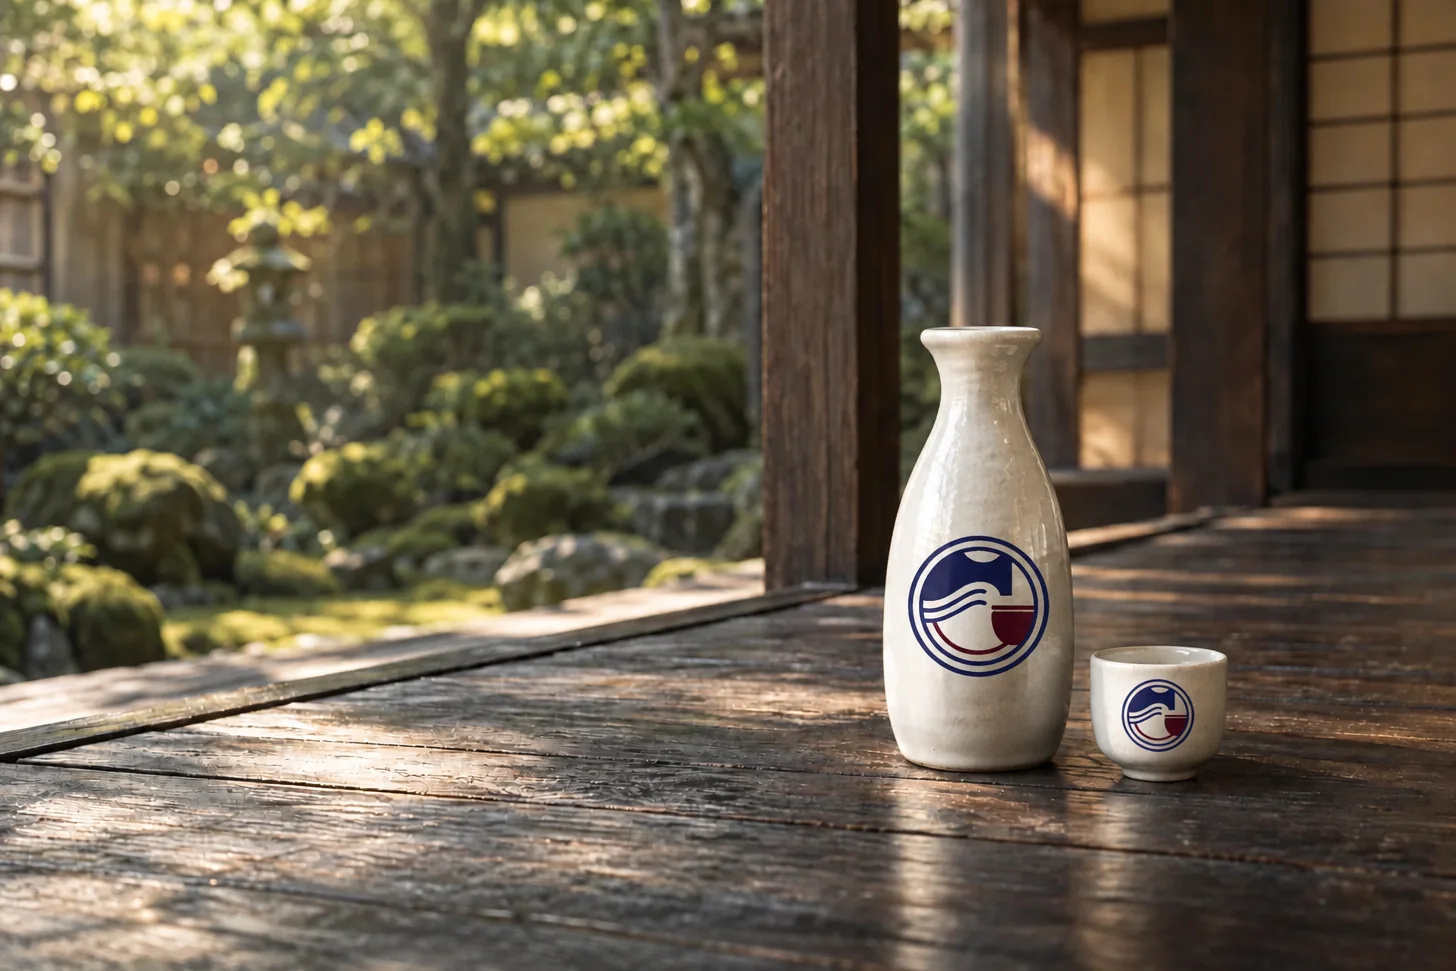
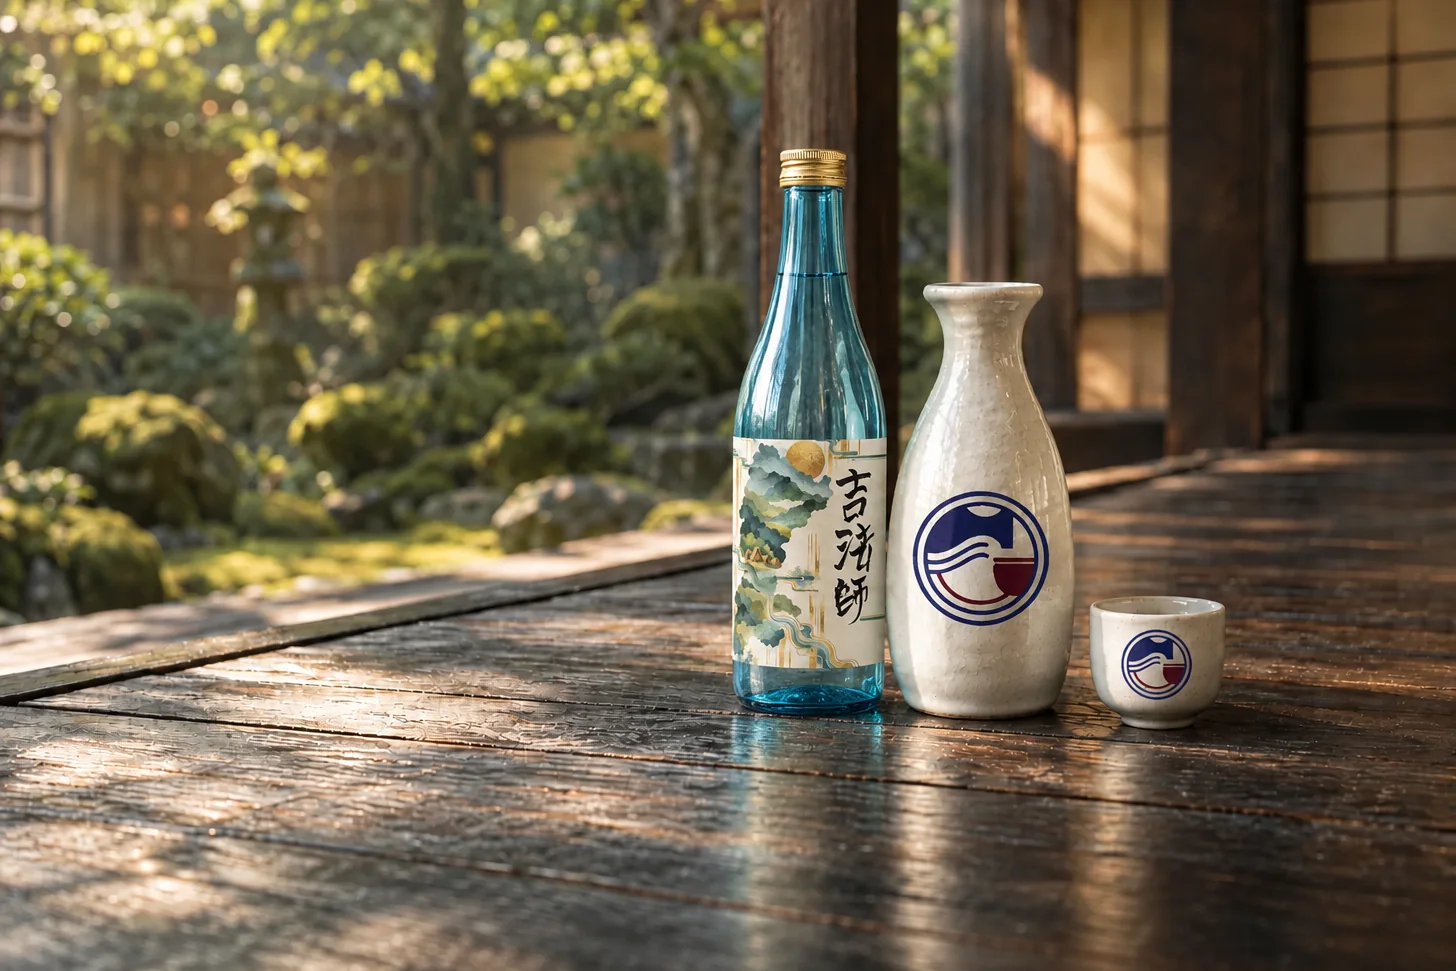
Publish hero with bottle, tokkuri and ochoko

diff --git a/index.html b/index.html
@@ -12,7 +12,7 @@
   <link rel="preconnect" href="https://fonts.gstatic.com" crossorigin>
   <link href="https://fonts.googleapis.com/css2?family=Noto+Sans+JP:wght@400;500&family=Zen+Old+Mincho:wght@400;500;600&display=swap" rel="stylesheet">
   <link rel="preload" as="image" href="assets/images/hero-tokkuri-1456.webp" media="(min-width: 701px)">
-  <link rel="preload" as="image" href="assets/images/hero-tokkuri-mobile-725.webp" imagesrcset="assets/images/hero-tokkuri-mobile-600.webp 600w, assets/images/hero-tokkuri-mobile-725.webp 725w" imagesizes="100vw" media="(max-width: 700px)">
+  <link rel="preload" as="image" href="assets/images/hero-tokkuri-mobile-725.webp" imagesrcset="assets/images/hero-tokkuri-mobile-600.webp 600w, assets/images/hero-tokkuri-mobile-725.webp 700w" imagesizes="100vw" media="(max-width: 700px)">
   <link rel="stylesheet" href="assets/css/site.css?v=7">
   <link rel="stylesheet" href="assets/css/editorial.css?v=10">
   <link rel="stylesheet" href="assets/css/castle-atmosphere.css?v=9">
@@ -35,7 +35,7 @@
     <div id="home-page" class="page">
       <section data-surface="dark" class="hero" aria-labelledby="hero-title">
         <div class="hero-title"><p class="hero-origin">いだちゃんねるの日本酒</p><h1 id="hero-title" aria-label="吉法師"><span aria-hidden="true">吉</span><span aria-hidden="true">法</span><span aria-hidden="true">師</span></h1><span class="hero-reading">きっぽうし</span></div>
-        <figure class="hero-image"><picture><source media="(max-width: 700px)" srcset="assets/images/hero-tokkuri-mobile-600.webp 600w, assets/images/hero-tokkuri-mobile-725.webp 725w" sizes="100vw"><img src="assets/images/hero-tokkuri-1456.webp" srcset="assets/images/hero-tokkuri-800.webp 800w, assets/images/hero-tokkuri-1456.webp 1456w" sizes="100vw" width="1456" height="971" alt="緑の庭を望む縁側に、ロゴ入りの白い徳利とおちょこ。生成した撮影イメージ。" fetchpriority="high"></picture><figcaption>生成イメージ<span>瓶・ラベルは仮デザイン</span></figcaption></figure>
+        <figure class="hero-image"><picture><source media="(max-width: 700px)" srcset="assets/images/hero-tokkuri-mobile-600.webp 600w, assets/images/hero-tokkuri-mobile-725.webp 700w" sizes="100vw"><img src="assets/images/hero-tokkuri-1456.webp" srcset="assets/images/hero-tokkuri-800.webp 800w, assets/images/hero-tokkuri-1456.webp 1456w" sizes="100vw" width="1456" height="971" alt="緑の庭を望む縁側に、吉法師の瓶とロゴ入りの白い徳利・おちょこ。生成した撮影イメージ。" fetchpriority="high"></picture><figcaption>生成イメージ<span>瓶・ラベルは仮デザイン</span></figcaption></figure>
         <div class="hero-bottom"><a class="button hero-shop" href="#/product">商品を見る <span class="arrow" aria-hidden="true">↗</span></a></div>
         <div class="hero-foot"><span>いだちゃんねるの日本酒</span><a href="#/sake"><i class="scroll-stroke" aria-hidden="true"></i>お酒のご紹介 <span aria-hidden="true">↓</span></a></div>
       </section>
@@ -69,7 +69,7 @@
         <a class="button button-red" href="#/product">商品を見る <span aria-hidden="true">↗</span></a>
       </section>
     </div>
-    <div id="product-page" class="page" hidden><div class="breadcrumbs section-wrap"><a href="#/">トップ</a><span>／</span><span>吉法師</span></div><section class="product-layout section-wrap" aria-labelledby="pdp-title"><div class="product-gallery"><figure><img id="gallery-main" src="assets/images/bottle-front-1000.webp" width="1000" height="1250" alt="吉法師の瓶の正面。水色の瓶に金色のキャップ、山水を描いたラベル。"><figcaption id="gallery-caption">制作イメージ</figcaption></figure><div class="gallery-thumbs" aria-label="商品画像を選ぶ"><button aria-label="瓶の正面" aria-pressed="true" data-gallery="bottle"><img src="assets/images/bottle-front-400.webp" width="80" height="100" alt=""></button><button aria-label="瓶の裏面" aria-pressed="false" data-gallery="back"><img src="assets/images/bottle-back-400.webp" width="80" height="100" alt=""></button><button aria-label="ラベルの拡大" aria-pressed="false" data-gallery="label"><img src="assets/images/bottle-label.webp" width="100" height="91" alt=""></button><button aria-label="キャップの拡大" aria-pressed="false" data-gallery="cap"><img src="assets/images/bottle-cap.webp" width="100" height="85" alt=""></button><button aria-label="瓶底の刻印" aria-pressed="false" data-gallery="base"><img src="assets/images/bottle-base.webp" width="100" height="49" alt=""></button><button aria-label="盃の情景イメージ" aria-pressed="false" data-gallery="cups"><img src="assets/images/cups-800.webp" width="100" height="70" alt=""></button></div></div><div class="product-information"><span class="eyebrow">純米吟醸 ／ いだちゃんねるの日本酒</span><p class="product-kana">きっぽうし</p><h1 id="pdp-title" class="product-title serif">吉法師</h1><p class="pdp-description">京都の米「祝」と、伏見の酒造り。<br>エンタメではなく“本気”で創った日本酒。<br>これを読んでるあなたが、日本酒を楽しむ入口を目指しました。</p><div class="purchase" id="purchase"><div class="purchase-heading"><span data-sale-label>販売準備中</span><span>日本国内向け</span></div><div class="price-display"><p>販売価格（税込）<br><span data-sales-field="price">販売者確認待ち</span><small>容量：<span data-sales-field="volume">販売者確認待ち</span></small></p></div><div class="quantity-row"><label for="product-quantity">数量</label><div class="quantity-control"><button type="button" data-quantity="-1" data-target="product-quantity" aria-label="数量を減らす">−</button><input id="product-quantity" type="number" min="1" value="1" step="1" inputmode="numeric"><button type="button" data-quantity="1" data-target="product-quantity" aria-label="数量を増やす">＋</button></div></div><button type="button" id="add-to-cart" class="button button-red full" disabled>販売開始前です</button><p class="purchase-note" data-sale-note>発売日が決まり次第、お知らせします。</p><div class="alcohol-warning"><p>20歳未満の者の飲酒は法律で禁止されています。</p><p>20歳未満の方には酒類を販売いたしません。</p></div><nav class="disclosure-nav" aria-label="販売条件"><a href="#/legal">送料・お支払い・返品等</a><a href="#/alcohol">酒類販売管理者標識</a></nav></div><div class="product-accordions"><details open><summary>お酒について<span aria-hidden="true">＋</span></summary><dl class="spec-list"><div><dt>商品名</dt><dd><span data-sales-field="productName"></span>（きっぽうし）</dd></div><div><dt>品目</dt><dd><span data-sales-field="category"></span></dd></div><div><dt>原材料名</dt><dd><span data-sales-field="ingredients"></span></dd></div><div><dt>精米歩合</dt><dd><span data-sales-field="polishRatio"></span></dd></div><div><dt>原料米品種</dt><dd><span data-sales-field="riceVariety"></span></dd></div><div><dt>アルコール分</dt><dd><span data-sales-field="alcohol"></span></dd></div><div><dt>内容量</dt><dd><span data-sales-field="volume"></span></dd></div><div><dt>保存方法</dt><dd><span data-sales-field="storage"></span></dd></div><div><dt>製造者</dt><dd><span data-sales-field="maker"></span></dd></div><div><dt>製造年月</dt><dd>ラベルに記載</dd></div><div><dt>飲用上の注意</dt><dd><span data-sales-field="labelNotes"></span></dd></div></dl></details><details><summary>お支払い・お届け・返品について<span aria-hidden="true">＋</span></summary><div data-sales-table="purchase" data-sales-hints="false"></div><p>未確定の項目があります。販売条件の確認が済むまで、ご注文は受け付けておりません。</p><a class="line-link" href="#/legal">すべての販売条件を見る <span aria-hidden="true">↗</span></a></details></div></div></section><section class="pdp-scene section-wrap"><img src="assets/images/hero-tokkuri-1456.webp" width="1456" height="971" loading="lazy" alt="縁側の徳利とおちょこ。実在のいだ城とは異なる生成イメージ。"><div><span class="eyebrow">いだちゃんねるの日本酒</span><p class="serif">吉法師について</p><small>生成した撮影イメージです。<br>実際の商品・いだ城の写真ではありません。</small><a class="line-link" href="#/about">吉法師について <span aria-hidden="true">↗</span></a></div></section></div>
+    <div id="product-page" class="page" hidden><div class="breadcrumbs section-wrap"><a href="#/">トップ</a><span>／</span><span>吉法師</span></div><section class="product-layout section-wrap" aria-labelledby="pdp-title"><div class="product-gallery"><figure><img id="gallery-main" src="assets/images/bottle-front-1000.webp" width="1000" height="1250" alt="吉法師の瓶の正面。水色の瓶に金色のキャップ、山水を描いたラベル。"><figcaption id="gallery-caption">制作イメージ</figcaption></figure><div class="gallery-thumbs" aria-label="商品画像を選ぶ"><button aria-label="瓶の正面" aria-pressed="true" data-gallery="bottle"><img src="assets/images/bottle-front-400.webp" width="80" height="100" alt=""></button><button aria-label="瓶の裏面" aria-pressed="false" data-gallery="back"><img src="assets/images/bottle-back-400.webp" width="80" height="100" alt=""></button><button aria-label="ラベルの拡大" aria-pressed="false" data-gallery="label"><img src="assets/images/bottle-label.webp" width="100" height="91" alt=""></button><button aria-label="キャップの拡大" aria-pressed="false" data-gallery="cap"><img src="assets/images/bottle-cap.webp" width="100" height="85" alt=""></button><button aria-label="瓶底の刻印" aria-pressed="false" data-gallery="base"><img src="assets/images/bottle-base.webp" width="100" height="49" alt=""></button><button aria-label="盃の情景イメージ" aria-pressed="false" data-gallery="cups"><img src="assets/images/cups-800.webp" width="100" height="70" alt=""></button></div></div><div class="product-information"><span class="eyebrow">純米吟醸 ／ いだちゃんねるの日本酒</span><p class="product-kana">きっぽうし</p><h1 id="pdp-title" class="product-title serif">吉法師</h1><p class="pdp-description">京都の米「祝」と、伏見の酒造り。<br>エンタメではなく“本気”で創った日本酒。<br>これを読んでるあなたが、日本酒を楽しむ入口を目指しました。</p><div class="purchase" id="purchase"><div class="purchase-heading"><span data-sale-label>販売準備中</span><span>日本国内向け</span></div><div class="price-display"><p>販売価格（税込）<br><span data-sales-field="price">販売者確認待ち</span><small>容量：<span data-sales-field="volume">販売者確認待ち</span></small></p></div><div class="quantity-row"><label for="product-quantity">数量</label><div class="quantity-control"><button type="button" data-quantity="-1" data-target="product-quantity" aria-label="数量を減らす">−</button><input id="product-quantity" type="number" min="1" value="1" step="1" inputmode="numeric"><button type="button" data-quantity="1" data-target="product-quantity" aria-label="数量を増やす">＋</button></div></div><button type="button" id="add-to-cart" class="button button-red full" disabled>販売開始前です</button><p class="purchase-note" data-sale-note>発売日が決まり次第、お知らせします。</p><div class="alcohol-warning"><p>20歳未満の者の飲酒は法律で禁止されています。</p><p>20歳未満の方には酒類を販売いたしません。</p></div><nav class="disclosure-nav" aria-label="販売条件"><a href="#/legal">送料・お支払い・返品等</a><a href="#/alcohol">酒類販売管理者標識</a></nav></div><div class="product-accordions"><details open><summary>お酒について<span aria-hidden="true">＋</span></summary><dl class="spec-list"><div><dt>商品名</dt><dd><span data-sales-field="productName"></span>（きっぽうし）</dd></div><div><dt>品目</dt><dd><span data-sales-field="category"></span></dd></div><div><dt>原材料名</dt><dd><span data-sales-field="ingredients"></span></dd></div><div><dt>精米歩合</dt><dd><span data-sales-field="polishRatio"></span></dd></div><div><dt>原料米品種</dt><dd><span data-sales-field="riceVariety"></span></dd></div><div><dt>アルコール分</dt><dd><span data-sales-field="alcohol"></span></dd></div><div><dt>内容量</dt><dd><span data-sales-field="volume"></span></dd></div><div><dt>保存方法</dt><dd><span data-sales-field="storage"></span></dd></div><div><dt>製造者</dt><dd><span data-sales-field="maker"></span></dd></div><div><dt>製造年月</dt><dd>ラベルに記載</dd></div><div><dt>飲用上の注意</dt><dd><span data-sales-field="labelNotes"></span></dd></div></dl></details><details><summary>お支払い・お届け・返品について<span aria-hidden="true">＋</span></summary><div data-sales-table="purchase" data-sales-hints="false"></div><p>未確定の項目があります。販売条件の確認が済むまで、ご注文は受け付けておりません。</p><a class="line-link" href="#/legal">すべての販売条件を見る <span aria-hidden="true">↗</span></a></details></div></div></section><section class="pdp-scene section-wrap"><img src="assets/images/hero-tokkuri-1456.webp" width="1456" height="971" loading="lazy" alt="縁側の瓶と徳利・おちょこ。実在のいだ城とは異なる生成イメージ。"><div><span class="eyebrow">いだちゃんねるの日本酒</span><p class="serif">吉法師について</p><small>生成した撮影イメージです。<br>実際の商品・いだ城の写真ではありません。</small><a class="line-link" href="#/about">吉法師について <span aria-hidden="true">↗</span></a></div></section></div>
     <div id="cart-page" class="page" hidden><div class="commerce-page section-wrap"><div class="commerce-heading"><span class="eyebrow">SHOPPING BAG</span><h1 class="serif">買い物かご</h1><span data-cart-summary>0 点の商品</span></div><p class="commerce-notice">こちらは動作確認用のカートです。ご注文・お支払いは発生しません。</p><div class="alcohol-warning"><p>20歳未満の者の飲酒は法律で禁止されています。</p><p>20歳未満の方には酒類を販売いたしません。</p></div><div id="cart-content"></div><a class="back-link" href="#/product">← お酒を見る</a></div></div>
     <div id="checkout-page" class="page" hidden><div class="commerce-page checkout-page section-wrap"><div class="commerce-heading"><span class="eyebrow">CHECKOUT PREVIEW</span><h1 class="serif">購入手続き</h1></div><p class="commerce-notice">購入画面の試作です。決済・在庫・受注システムは未接続です。</p><div id="checkout-content"></div><a href="#/cart" class="back-link">← 買い物かごに戻る</a></div></div>
     <div id="info-page" class="page" hidden><article class="info-page section-wrap" id="info-content"></article></div>

diff --git a/assets/js/site.js b/assets/js/site.js
@@ -114,7 +114,7 @@
     privacy: { title: 'プライバシーポリシー', body: '<p>本番のプライバシーポリシーは、運営主体・利用するECサービス・個人情報の取扱いが確定した後に公開します。</p><h2>この試作について</h2><p>カートの数量と試作設定を、お使いのブラウザー内に保存します。決済や受注システムへの送信はありません。年齢入力は保存しません。文字の表示にGoogle Fontsを利用します。</p>' },
     terms: { title: '利用規約', body: '<p>このサイトは、デザインと操作を確認するための試作です。注文の成立、決済、商品の発送は行われません。</p><p>本番の利用規約は、販売条件とECサービスが決まった後、販売主体の確認を経て公開します。</p>' },
     contact: { title: 'お問い合わせ', body: '<p>商品・ご注文に関するお問い合わせ窓口は、販売開始前にご案内します。</p><p>現在、こちらの試作サイトからお問い合わせを送信することはできません。</p>' },
-    notes: { title: 'デザインについて', body: '<p>参考イメージ画の生成り、瓦の墨色、松の緑、木の飴色をサイト全体に取り入れました。紙の質感、細い雲と水紋、朱の小さな印を余白に添えています。写真の大きさと明朝体は引き継ぎ、題字・見出し・説明文で文字が現れる動きを変えました。最後は大きな題字と朱印で締めています。</p><h2>写真・題字について</h2><p>商品と縁側の写真は生成イメージです。商品写真はご提供の瓶のデザイン画像から切り出しています。縁側の写真は、ロゴ入りの白い徳利とおちょこを置いた生成画像で、スマートフォン用の縦構図も用意しました。縁側の生成画像はいだ城の実写ではありません。ご提供のイメージ画は色と意匠の参考にしています。イメージ画と外観写真そのものは掲載していません。雲と水紋の装飾は、このサイト用に作成した線画です。</p><h2>本番に必要な素材</h2><ul><li>最優先：正式ロゴ（SVG・AI）、実物の瓶の正面・背面・ラベル写真（長辺3000px以上）。</li><li>メイン写真：実際のいだ城の縁側に瓶を置いた横構図（3000 × 2000px以上）とスマートフォン用の縦構図（1600 × 2400px以上）。</li><li>人物・物語：二人がお酒に関わる自然な写真、名前の由来・企画の背景についての本人たちの言葉。</li><li>商品情報：容量、味と香り、原材料、アルコール分、製造者、保管方法、発売日。税込価格は3,980円で回答済みです。</li></ul><h2>販売開始まで</h2><p>Shopifyを候補にEC基盤を確認中です。決済・在庫・受注の接続、管理者の選任確認、送料・発送日数・返品受付期限・公開連絡先などの確定が必要です。現在は画面のみの試作です。</p><button class="button button-outline" data-open-settings type="button">カートの動作を確認 <span aria-hidden="true">↗</span></button><div class="notes-links"><a href="docs/REVIEW.html" target="_blank" rel="noopener">デザイン確認版のご案内 ↗</a></div><h2>参考・確認元</h2><div class="notes-links"><a href="https://ec.tamanohikari.co.jp/" target="_blank" rel="noopener noreferrer">玉乃光 公式EC ↗</a><a href="https://dassai.com/" target="_blank" rel="noopener noreferrer">獺祭 ↗</a><a href="https://www.asahi-shuzo-online.jp/" target="_blank" rel="noopener noreferrer">朝日酒造 公式EC ↗</a><a href="https://www.city.nantan.kyoto.jp/www/gove/132/007/000/index_1020241.html" target="_blank" rel="noopener noreferrer">南丹市 ↗</a><a href="https://www.youtube.com/@ida_channel" target="_blank" rel="noopener noreferrer">いだちゃんねる ↗</a></div>' }
+    notes: { title: 'デザインについて', body: '<p>参考イメージ画の生成り、瓦の墨色、松の緑、木の飴色をサイト全体に取り入れました。紙の質感、細い雲と水紋、朱の小さな印を余白に添えています。写真の大きさと明朝体は引き継ぎ、題字・見出し・説明文で文字が現れる動きを変えました。最後は大きな題字と朱印で締めています。</p><h2>写真・題字について</h2><p>商品と縁側の写真は生成イメージです。商品写真はご提供の瓶のデザイン画像から切り出しています。縁側の写真は、瓶の横にロゴ入りの白い徳利とおちょこを置いた生成画像で、スマートフォン用の縦構図も用意しました。縁側の生成画像はいだ城の実写ではありません。ご提供のイメージ画は色と意匠の参考にしています。イメージ画と外観写真そのものは掲載していません。雲と水紋の装飾は、このサイト用に作成した線画です。</p><h2>本番に必要な素材</h2><ul><li>最優先：正式ロゴ（SVG・AI）、実物の瓶の正面・背面・ラベル写真（長辺3000px以上）。</li><li>メイン写真：実際のいだ城の縁側に瓶を置いた横構図（3000 × 2000px以上）とスマートフォン用の縦構図（1600 × 2400px以上）。</li><li>人物・物語：二人がお酒に関わる自然な写真、名前の由来・企画の背景についての本人たちの言葉。</li><li>商品情報：容量、味と香り、原材料、アルコール分、製造者、保管方法、発売日。税込価格は3,980円で回答済みです。</li></ul><h2>販売開始まで</h2><p>Shopifyを候補にEC基盤を確認中です。決済・在庫・受注の接続、管理者の選任確認、送料・発送日数・返品受付期限・公開連絡先などの確定が必要です。現在は画面のみの試作です。</p><button class="button button-outline" data-open-settings type="button">カートの動作を確認 <span aria-hidden="true">↗</span></button><div class="notes-links"><a href="docs/REVIEW.html" target="_blank" rel="noopener">デザイン確認版のご案内 ↗</a></div><h2>参考・確認元</h2><div class="notes-links"><a href="https://ec.tamanohikari.co.jp/" target="_blank" rel="noopener noreferrer">玉乃光 公式EC ↗</a><a href="https://dassai.com/" target="_blank" rel="noopener noreferrer">獺祭 ↗</a><a href="https://www.asahi-shuzo-online.jp/" target="_blank" rel="noopener noreferrer">朝日酒造 公式EC ↗</a><a href="https://www.city.nantan.kyoto.jp/www/gove/132/007/000/index_1020241.html" target="_blank" rel="noopener noreferrer">南丹市 ↗</a><a href="https://www.youtube.com/@ida_channel" target="_blank" rel="noopener noreferrer">いだちゃんねる ↗</a></div>' }
   };
   function updateSticky() {
     const bar = $('.mobile-purchase');
